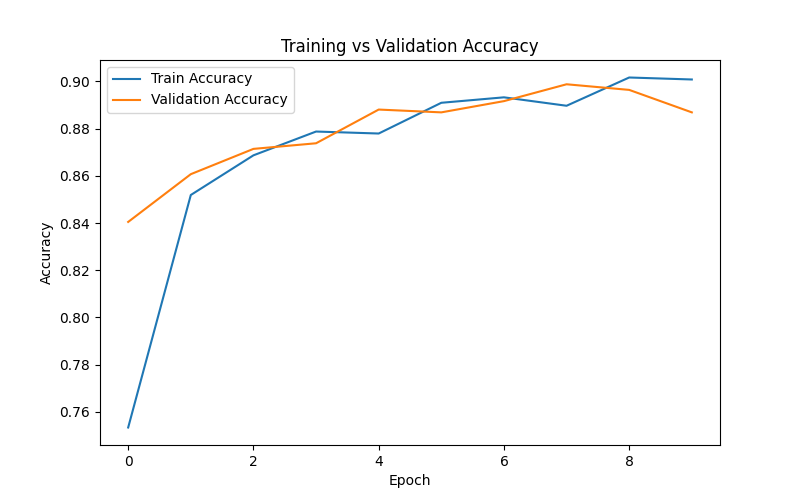
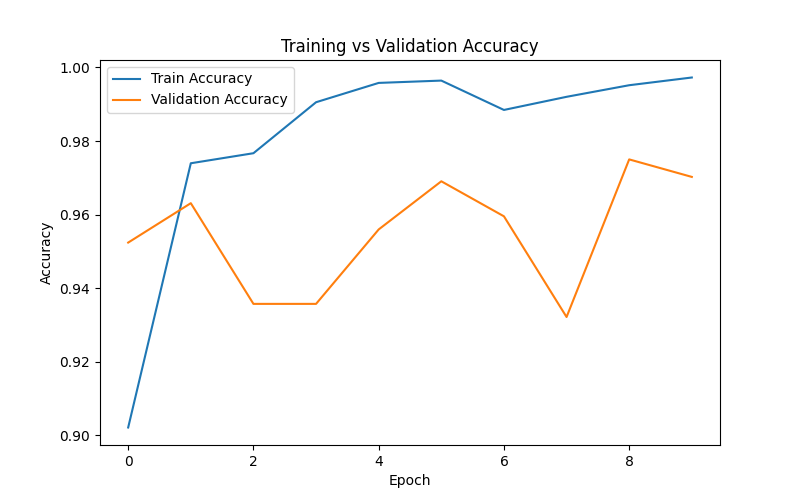
Added best checkpoint saving and improved accuracy - 93.8%

diff --git a/notebooks/train.py b/notebooks/train.py
@@ -15,9 +15,9 @@ import seaborn as sns
 from dataset import get_dataloaders
 
 # ---- Config ----
-DEVICE = torch.device("cpu")
+DEVICE = torch.device("cpu")  # MX130 GPU is too old (CUDA capability 5.0) for current PyTorch — using CPU
 EPOCHS = 10
-LEARNING_RATE = 0.001
+LEARNING_RATE = 0.0005  # lowered from 0.001 since layer4 now trains too — keeps its pretrained weights from shifting too aggressively
 MODEL_SAVE_PATH = "../models/mri_classifier.pt"
 
 print(f"Using device: {DEVICE}")
@@ -35,6 +35,15 @@ def build_model(num_classes):
     # textures, shapes. We don't want to destroy that knowledge.
     for param in model.parameters():
         param.requires_grad = False
+
+    # Unfreeze layer4 (the last residual block). Early layers detect generic
+    # features (edges, textures) that transfer fine from ImageNet as-is, but
+    # late layers detect more abstract, task-specific patterns. Letting layer4
+    # retrain lets the model learn MRI-specific distinctions (e.g. the subtle
+    # differences between glioma/meningioma/notumor) instead of relying on
+    # generic ImageNet features for everything except the final classification.
+    for param in model.layer4.parameters():
+        param.requires_grad = True
 
     # Replace the final classification layer to output 4 classes instead of 1000
     num_features = model.fc.in_features
@@ -97,10 +106,15 @@ def main():
 
     model = build_model(num_classes)
     criterion = nn.CrossEntropyLoss()
-    # Only the new final layer has requires_grad=True, so only it gets trained
-    optimizer = optim.Adam(model.fc.parameters(), lr=LEARNING_RATE)
+    # Now training both the new final layer AND layer4. layer4 already has
+    # decent pretrained weights, so we don't want to blow them away with a
+    # big learning rate — Adam will adjust fc faster than layer4 in practice,
+    # but a single conservative LR for both keeps this simple and stable.
+    trainable_params = [p for p in model.parameters() if p.requires_grad]
+    optimizer = optim.Adam(trainable_params, lr=LEARNING_RATE)
 
     history = {"train_acc": [], "val_acc": [], "train_loss": [], "val_loss": []}
+    best_val_acc = 0.0  # tracks the best validation accuracy seen so far across epochs
 
     print("\nStarting training...\n")
     for epoch in range(EPOCHS):
@@ -116,6 +130,29 @@ def main():
               f"Train Loss: {train_loss:.4f} Acc: {train_acc:.4f} | "
               f"Val Loss: {val_loss:.4f} Acc: {val_acc:.4f}")
 
+        # Save a checkpoint only when validation accuracy improves. This way,
+        # even if later epochs overfit and val accuracy drops, we still keep
+        # the best version the model reached — not just whatever the last
+        # epoch happened to be.
+        if val_acc > best_val_acc:
+            best_val_acc = val_acc
+            torch.save({
+                "model_state_dict": model.state_dict(),
+                "class_names": class_names,
+                "val_accuracy": val_acc,
+                "epoch": epoch + 1,
+            }, MODEL_SAVE_PATH)
+            print(f"  -> New best val accuracy ({val_acc:.4f}). Checkpoint saved.")
+
+    # ---- Load best checkpoint for final test evaluation ----
+    # The loop above already saved the best-performing version to disk as it
+    # trained. We reload it here so the test evaluation (and saved plots)
+    # reflect the best model, not whatever the final epoch happened to produce.
+    best_checkpoint = torch.load(MODEL_SAVE_PATH, map_location=DEVICE, weights_only=False)
+    model.load_state_dict(best_checkpoint["model_state_dict"])
+    print(f"\nLoaded best checkpoint from epoch {best_checkpoint['epoch']} "
+          f"(val accuracy: {best_checkpoint['val_accuracy']:.4f})")
+
     # ---- Final test evaluation ----
     print("\nEvaluating on held-out test set...\n")
     test_loss, test_acc, preds, labels = evaluate(model, test_loader, criterion)
@@ -123,12 +160,7 @@ def main():
     print("\nClassification Report:")
     print(classification_report(labels, preds, target_names=class_names))
 
-    # ---- Save model ----
-    torch.save({
-        "model_state_dict": model.state_dict(),
-        "class_names": class_names,
-    }, MODEL_SAVE_PATH)
-    print(f"\nModel saved to {MODEL_SAVE_PATH}")
+    print(f"\nBest model already saved to {MODEL_SAVE_PATH} (during training loop)")
 
     # ---- Plot accuracy curve ----
     plt.figure(figsize=(8, 5))